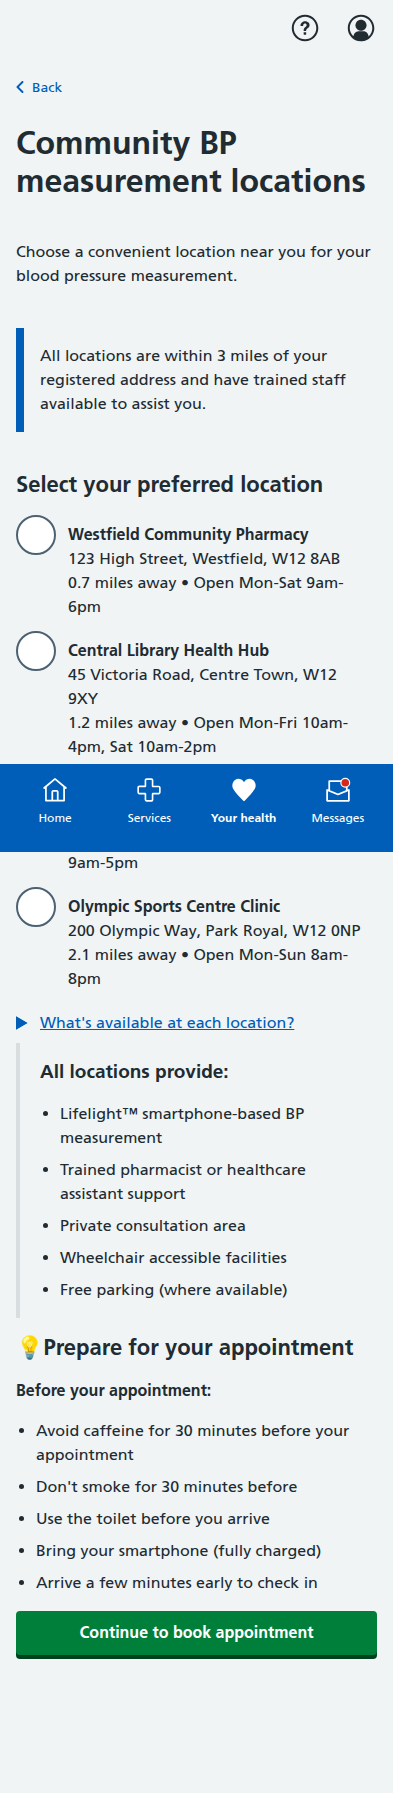
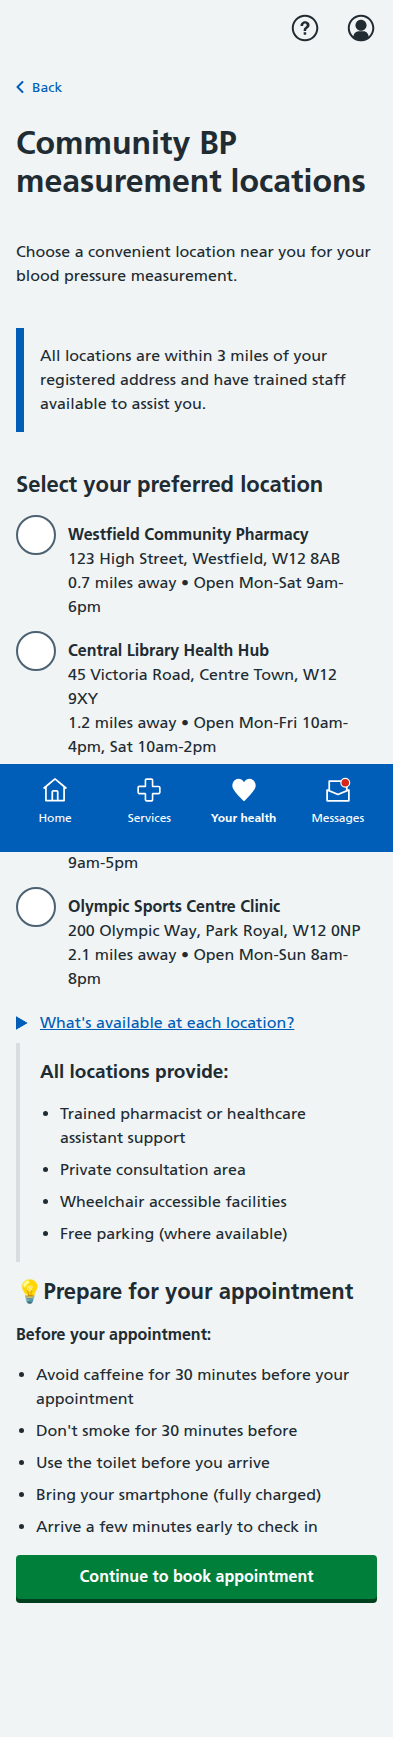
Implement previous feedback: fix community locations, Lifelight interface positioning, user-friendly results messaging, and remove outdated screenshots

diff --git a/prototype/v1/app/views/pages/mybp/bp-measurement/lifelight-embedded.html b/prototype/v1/app/views/pages/mybp/bp-measurement/lifelight-embedded.html
@@ -52,7 +52,7 @@
       <ol class="nhsuk-list nhsuk-list--number">
         <li>Make sure you're in a quiet, comfortable environment with good lighting</li>
         <li>Hold your phone at arm's length facing towards you</li>
-        <li>Position your face so your left cheek is clearly visible in the camera</li>
+        <li>Position your face centrally in the camera view</li>
         <li>Keep completely still and breathe normally for about 30 seconds during measurement</li>
         <li>Follow the on-screen instructions and countdown</li>
         <li>The system will take 3 readings automatically with short breaks between each</li>
@@ -71,7 +71,7 @@
                 <span style="font-size: 36px;">📱</span>
                 <div style="position: absolute; bottom: 10px; font-size: 14px;">Camera View</div>
               </div>
-              <p style="margin-top: 20px; font-size: 18px;">Position your left cheek in view</p>
+              <p style="margin-top: 20px; font-size: 18px;">Position your face in view</p>
               <p style="margin-top: 10px;">Keep still while measurement is taken</p>
               <div style="margin-top: 15px; padding: 10px; background: rgba(255,255,255,0.1); border-radius: 4px;">
                 <p style="margin: 0; font-size: 16px;"><strong>Ready to start measurement 1 of 3</strong></p>

diff --git a/prototype/v1/app/views/pages/mybp/bp-measurement/lifelight-results.html b/prototype/v1/app/views/pages/mybp/bp-measurement/lifelight-results.html
@@ -88,7 +88,7 @@
           <h3 class="nhsuk-care-card__heading">
             <span role="text">
               <span class="nhsuk-u-visually-hidden">Immediate action required: </span>
-              AI system update
+              Care team response
             </span>
           </h3>
           <span class="nhsuk-care-card__arrow" aria-hidden="true"></span>
@@ -96,8 +96,8 @@
         <div class="nhsuk-care-card__content">
           <p>Your reading (148/92 mmHg) is higher than your target. The AI system has automatically:</p>
           <ul class="nhsuk-list nhsuk-list--bullet">
-            <li>Updated your medication review priority</li>
-            <li>Scheduled an earlier AI assessment for tomorrow</li>
+            <li>Moved your medication review to high priority</li>
+            <li>Scheduled an urgent AI assessment (starting now)</li>
             <li>Notified your clinical team of the elevated reading</li>
           </ul>
           <p><strong>Next action:</strong> Return to My BP dashboard to see your updated recommendations.</p>

diff --git a/prototype/v1/app/views/pages/mybp/bp-measurement/locations.html b/prototype/v1/app/views/pages/mybp/bp-measurement/locations.html
@@ -91,7 +91,6 @@
           <div class="nhsuk-details__text">
             <h3 class="nhsuk-heading-s">All locations provide:</h3>
             <ul class="nhsuk-list nhsuk-list--bullet">
-              <li>Lifelight™ smartphone-based BP measurement</li>
               <li>Trained pharmacist or healthcare assistant support</li>
               <li>Private consultation area</li>
               <li>Wheelchair accessible facilities</li>
